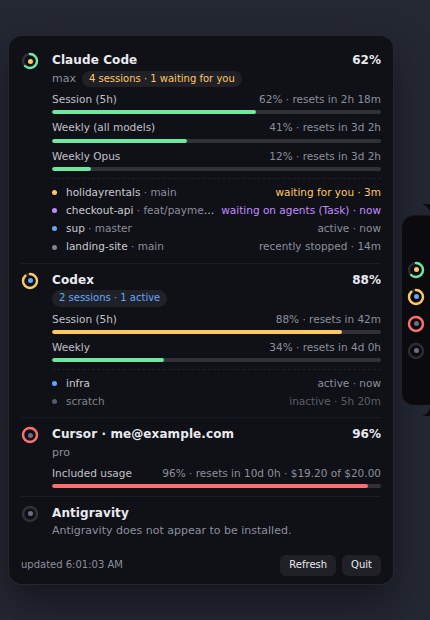
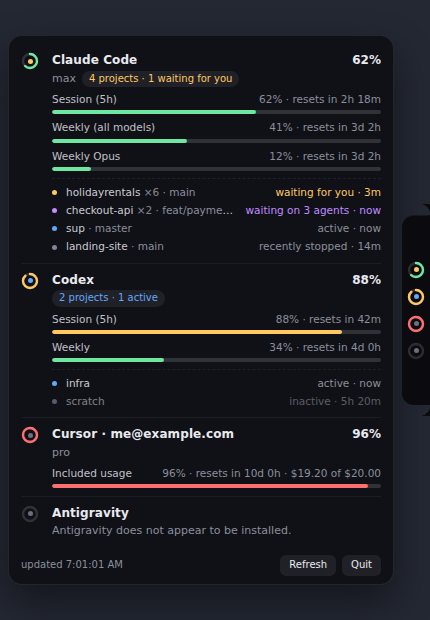
Collapse the list onto projects, and count outstanding agents
Six rows all reading "holidayrentals" were six session files, not subagents:
Claude Code writes one transcript per run, all under the project's directory,
so a project worked on all day accumulates transcripts and fills the list
with rows that look identical and say nothing.

Rows are now per project. Several transcripts fold into one, keeping the
state that most wants attention and the most recent activity, with a ×6
after the name for how many are behind it.

Subagents genuinely do not get their own files — they run inside the parent
transcript, marked isSidechain — so an agent count comes from counting
unanswered Task calls instead. A project blocked on them now reads "waiting
on 3 agents" rather than a bare "waiting on agents", and the hover title
carries the full path, branch, session count and agents outstanding.

35 tests pass, including that the fullest project keeps the freshest
timestamp and the most urgent of its states.

Claude-Session: https://claude.ai/code/session_01DtGgXZSrVJ5Qe7xeMLC8bR

diff --git a/src/main/lib/sessions.js b/src/main/lib/sessions.js
@@ -122,6 +122,7 @@ async function listSessions(rootDir, opts = {}) {
       state,
       stateLabel: STATES[state].label,
       waitingOn: info.pending ? info.pending.name : null,
+      agents: info.agents || 0,
       lastActivity: new Date(mtimeMs).toISOString(),
       ageMs,
     });
@@ -135,6 +136,46 @@ async function listSessions(rootDir, opts = {}) {
 
   sessions.sort((a, b) => STATES[a.state].rank - STATES[b.state].rank || a.ageMs - b.ageMs);
   return sessions.slice(0, limit);
+}
+
+/**
+ * One row per project, not per transcript.
+ *
+ * Every `claude` run in a directory writes its own session file, so a project
+ * worked on all day accumulates transcripts and would otherwise fill the list
+ * with identical-looking rows. Collapse them onto the project, keeping the
+ * state that most wants attention and the most recent activity.
+ */
+function groupByProject(sessions, { limit = 8 } = {}) {
+  const groups = new Map();
+
+  for (const session of sessions) {
+    const key = session.cwd || session.id;
+    const group = groups.get(key);
+
+    if (!group) {
+      groups.set(key, { ...session, sessionCount: 1, agents: session.agents || 0 });
+      continue;
+    }
+
+    group.sessionCount += 1;
+    group.agents += session.agents || 0;
+
+    if (STATES[session.state].rank < STATES[group.state].rank) {
+      group.state = session.state;
+      group.stateLabel = STATES[session.state].label;
+      group.waitingOn = session.waitingOn;
+    }
+    if (session.ageMs < group.ageMs) {
+      group.ageMs = session.ageMs;
+      group.lastActivity = session.lastActivity;
+      group.branch = session.branch || group.branch;
+    }
+  }
+
+  return [...groups.values()]
+    .sort((a, b) => STATES[a.state].rank - STATES[b.state].rank || a.ageMs - b.ageMs)
+    .slice(0, limit);
 }
 
 /** The one session the collapsed tab should speak for. */
@@ -158,7 +199,7 @@ function summarise(sessions) {
  * current turn is considered, because our tail window may start after an older
  * call's result and we would wrongly call it pending.
  */
-function pendingToolCall(records, { isUserPrompt, toolUsesOf, toolResultsOf }) {
+function pendingToolCalls(records, { isUserPrompt, toolUsesOf, toolResultsOf }) {
   const resolved = new Set();
   const candidates = [];
 
@@ -169,17 +210,23 @@ function pendingToolCall(records, { isUserPrompt, toolUsesOf, toolResultsOf }) {
     if (isUserPrompt(rec)) break; // start of the current turn
   }
 
-  for (const use of candidates) {
-    if (!resolved.has(use.id)) return { ...use, ...classifyTool(use.name, use.input) };
-  }
-  return null;
+  return candidates
+    .filter((use) => !resolved.has(use.id))
+    .map((use) => ({ ...use, ...classifyTool(use.name, use.input) }));
+}
+
+/** The one call a session is blocked on, most recent first. */
+function pendingToolCall(records, hooks) {
+  return pendingToolCalls(records, hooks)[0] || null;
 }
 
 module.exports = {
   listSessions,
+  groupByProject,
   summarise,
   deriveState,
   pendingToolCall,
+  pendingToolCalls,
   classifyTool,
   STATES,
   DEFAULT_THRESHOLDS,

diff --git a/test/parsers.test.js b/test/parsers.test.js
@@ -9,7 +9,7 @@ const cursor = require('../src/main/providers/cursor')._internal;
 const antigravity = require('../src/main/providers/antigravity')._internal;
 const placement = require('../src/main/placement');
 const { worstWindow } = require('../src/main/lib/shape');
-const { deriveState, classifyTool } = require('../src/main/lib/sessions');
+const { deriveState, groupByProject } = require('../src/main/lib/sessions');
 const { kindOf } = require('../src/main/lib/processes');
 
 test('claude: maps the oauth usage payload to windows', () => {
@@ -209,6 +209,57 @@ test('session state: a fresh write beats everything else', () => {
 test('session state: a long-idle live session stops claiming to wait', () => {
   const old = { ageMs: 6 * 60 * 60 * 1000, pending: null, alive: true };
   assert.equal(deriveState(old), 'inactive');
+});
+
+const sess = (cwd, state, ageMs, extra = {}) => ({
+  id: `${cwd}-${ageMs}`,
+  cwd,
+  project: cwd.split('/').pop(),
+  branch: 'main',
+  state,
+  ageMs,
+  lastActivity: new Date(Date.now() - ageMs).toISOString(),
+  agents: 0,
+  ...extra,
+});
+
+test('grouping: many transcripts for one project become one row', () => {
+  // Every `claude` run in a directory writes its own transcript, so a project
+  // worked on all day would otherwise fill the list with identical rows.
+  const rows = groupByProject([
+    sess('/code/rentals', 'inactive', 9e6),
+    sess('/code/rentals', 'active', 1000),
+    sess('/code/rentals', 'stopped', 5e5),
+    sess('/code/shop', 'stopped', 6e5),
+  ]);
+
+  assert.equal(rows.length, 2);
+  const rentals = rows.find((r) => r.project === 'rentals');
+  assert.equal(rentals.sessionCount, 3);
+  // The state that most wants attention wins, and the freshest time is kept.
+  assert.equal(rentals.state, 'active');
+  assert.equal(rentals.ageMs, 1000);
+});
+
+test('grouping: outstanding agents are summed across a project', () => {
+  const [row] = groupByProject([
+    sess('/code/rentals', 'agents', 2000, { agents: 2, waitingOn: 'Task' }),
+    sess('/code/rentals', 'active', 3000, { agents: 1 }),
+  ]);
+  assert.equal(row.agents, 3);
+  assert.equal(row.state, 'agents');
+});
+
+test('grouping: the most urgent project sorts first', () => {
+  const rows = groupByProject([
+    sess('/code/a', 'inactive', 9e6),
+    sess('/code/b', 'active', 1000),
+    sess('/code/c', 'input', 5e5),
+  ]);
+  assert.deepEqual(
+    rows.map((r) => r.project),
+    ['c', 'b', 'a']
+  );
 });
 
 test('placement: the tab centres on the chosen edge', () => {

diff --git a/src/main/providers/claude.js b/src/main/providers/claude.js
@@ -6,7 +6,7 @@ const { execFile } = require('child_process');
 const { claudeConfigDirs, readJson } = require('../lib/paths');
 const { getJson } = require('../lib/http');
 const { usageWindow, providerResult } = require('../lib/shape');
-const { listSessions, summarise, pendingToolCall } = require('../lib/sessions');
+const { listSessions, groupByProject, summarise, pendingToolCall, pendingToolCalls } = require('../lib/sessions');
 
 const USAGE_URL = 'https://api.anthropic.com/api/oauth/usage';
 const OAUTH_BETA = 'oauth-2025-04-20';
@@ -111,7 +111,7 @@ function parseClaudeSession(records) {
     return Array.isArray(content) ? content : [];
   };
 
-  const pending = pendingToolCall(records, {
+  const hooks = {
     // A user record holding only tool_result blocks is the tail of the current
     // turn, not the start of a new one.
     isUserPrompt: (rec) =>
@@ -127,9 +127,19 @@ function parseClaudeSession(records) {
       blocks(rec)
         .filter((b) => b && b.type === 'tool_result' && b.tool_use_id)
         .map((b) => b.tool_use_id),
-  });
+  };
 
-  return { cwd, branch, lastStop, pending };
+  const unresolved = pendingToolCalls(records, hooks);
+
+  return {
+    cwd,
+    branch,
+    lastStop,
+    pending: unresolved[0] || null,
+    // Subagents run inside the parent transcript, so an unanswered Task call
+    // is one agent still out there.
+    agents: unresolved.filter((call) => call.background).length,
+  };
 }
 
 async function collectOne({ dir, label }, ctx) {
@@ -137,12 +147,15 @@ async function collectOne({ dir, label }, ctx) {
   const id = 'claude';
   const displayLabel = 'Claude Code';
 
-  const sessions = await listSessions(path.join(dir, 'projects'), {
-    parse: parseClaudeSession,
-    kind: 'claude',
-    processes: ctx.processes || [],
-    processesKnown: Boolean(ctx.processesKnown),
-  });
+  const sessions = groupByProject(
+    await listSessions(path.join(dir, 'projects'), {
+      parse: parseClaudeSession,
+      kind: 'claude',
+      processes: ctx.processes || [],
+      processesKnown: Boolean(ctx.processesKnown),
+      limit: 24,
+    })
+  );
   const session = summarise(sessions);
   const creds = readCredentials(dir);
   const envToken = process.env.CLAUDE_CODE_OAUTH_TOKEN;

diff --git a/src/renderer/sup.js b/src/renderer/sup.js
@@ -67,7 +67,7 @@ function summariseCounts(counts) {
   if (!total) return null;
 
   const headline = ['input', 'agents', 'active'].find((state) => counts[state]);
-  const size = total === 1 ? '1 session' : `${total} sessions`;
+  const size = total === 1 ? '1 project' : `${total} projects`;
   return headline ? `${size} \u00b7 ${counts[headline]} ${STATE_LABELS[headline]}` : size;
 }
 
@@ -234,17 +234,29 @@ function sessionList(sessions) {
   for (const s of sessions.slice(0, MAX_SESSION_ROWS)) {
     const row = el('div', 'session');
     row.dataset.state = s.state;
-    row.title = [s.cwd, s.branch && `branch ${s.branch}`, s.id].filter(Boolean).join('\n');
+    row.title = [
+      s.cwd,
+      s.branch && `branch ${s.branch}`,
+      s.sessionCount > 1 && `${s.sessionCount} sessions`,
+      s.agents > 0 && `${s.agents} agent${s.agents === 1 ? '' : 's'} outstanding`,
+    ]
+      .filter(Boolean)
+      .join('\n');
 
     const who = el('div', 'who');
     who.append(document.createTextNode(s.project || s.id.slice(0, 8)));
+    // Several transcripts for one project collapse into a single row.
+    if (s.sessionCount > 1) who.append(el('em', 'tally', ` \u00d7${s.sessionCount}`));
     if (s.branch) who.append(el('em', null, ` \u00b7 ${s.branch}`));
 
-    const label = STATE_LABELS[s.state] || s.state;
-    const detail = s.state === 'agents' && s.waitingOn ? `${label} (${s.waitingOn})` : label;
+    // "waiting on agents" is more useful as "waiting on 3 agents".
+    const label =
+      s.state === 'agents' && s.agents > 1
+        ? `waiting on ${s.agents} agents`
+        : STATE_LABELS[s.state] || s.state;
 
     const age = Date.now() - new Date(s.lastActivity).getTime();
-    row.append(el('span', 'dot'), who, el('div', 'what', `${detail} \u00b7 ${formatAge(age)}`));
+    row.append(el('span', 'dot'), who, el('div', 'what', `${label} \u00b7 ${formatAge(age)}`));
     wrap.append(row);
   }
 

diff --git a/scripts/screenshot.js b/scripts/screenshot.js
@@ -34,8 +34,8 @@ const SNAPSHOT = {
       ],
       session: { state: 'input', since: iso(-0.05), project: 'holidayrentals', counts: { input: 1, agents: 1, active: 1, stopped: 1 } },
       sessions: [
-        sess('holidayrentals', 'main', 'input', 3),
-        sess('checkout-api', 'feat/payments', 'agents', 0.6, 'Task'),
+        sess('holidayrentals', 'main', 'input', 3, { sessionCount: 6 }),
+        sess('checkout-api', 'feat/payments', 'agents', 0.6, { waitingOn: 'Task', agents: 3, sessionCount: 2 }),
         sess('sup', 'master', 'active', 0.1),
         sess('landing-site', 'main', 'stopped', 14),
       ],
@@ -87,7 +87,7 @@ function iso(hoursFromNow) {
 }
 
 /** One sample session row, `minsAgo` minutes since it last did anything. */
-function sess(project, branch, state, minsAgo, waitingOn = null) {
+function sess(project, branch, state, minsAgo, opts = {}) {
   const ageMs = minsAgo * 60 * 1000;
   return {
     id: `${project}-session`,
@@ -95,7 +95,9 @@ function sess(project, branch, state, minsAgo, waitingOn = null) {
     cwd: `/home/mark/code/${project}`,
     branch,
     state,
-    waitingOn,
+    waitingOn: opts.waitingOn || null,
+    agents: opts.agents || 0,
+    sessionCount: opts.sessionCount || 1,
     lastActivity: new Date(Date.now() - ageMs).toISOString(),
     ageMs,
   };

diff --git a/src/main/providers/codex.js b/src/main/providers/codex.js
@@ -6,7 +6,7 @@ const path = require('path');
 const { codexHome, readJson, exists } = require('../lib/paths');
 const { getJson } = require('../lib/http');
 const { usageWindow, providerResult } = require('../lib/shape');
-const { listSessions, summarise } = require('../lib/sessions');
+const { listSessions, groupByProject, summarise } = require('../lib/sessions');
 const { tailJsonl, findJsonlFiles } = require('../lib/jsonl');
 
 const USAGE_URL = 'https://chatgpt.com/backend-api/wham/usage';
@@ -160,12 +160,15 @@ async function collect(ctx = {}) {
     return [providerResult({ id, label, status: 'not-installed', detail: `No ${home} directory found.` })];
   }
 
-  const sessions = await listSessions(path.join(home, 'sessions'), {
-    parse: parseCodexSession,
-    kind: 'codex',
-    processes: ctx.processes || [],
-    processesKnown: Boolean(ctx.processesKnown),
-  });
+  const sessions = groupByProject(
+    await listSessions(path.join(home, 'sessions'), {
+      parse: parseCodexSession,
+      kind: 'codex',
+      processes: ctx.processes || [],
+      processesKnown: Boolean(ctx.processesKnown),
+      limit: 24,
+    })
+  );
   const session = summarise(sessions);
   const auth = readAuth(home);
 

diff --git a/src/renderer/sup.css b/src/renderer/sup.css
@@ -445,6 +445,10 @@ body[data-edge='bottom'] .panel-body {
   font-style: normal;
   color: var(--muted);
 }
+.session .who em.tally {
+  color: rgba(233, 234, 240, 0.55);
+  font-variant-numeric: tabular-nums;
+}
 .session .what {
   color: var(--muted);
   white-space: nowrap;

diff --git a/README.md b/README.md
@@ -92,6 +92,15 @@ counting that would mark every idle session as needing attention. Claude Code's
 permission prompts are not written to the transcript at all, so those cannot be
 detected from here; such a session reads as active until its tool call resolves.
 
+One row per project, not per transcript. Every `claude` run in a directory
+writes its own session file, so a project worked on all day would otherwise
+fill the list with identical rows; they collapse onto the project, keeping
+whichever state most wants your attention and the most recent activity. A
+`×6` after the name is the number of sessions behind that row, and a project
+blocked on subagents reads "waiting on 3 agents" — counted from unanswered
+`Task` calls, since subagents run inside the parent transcript rather than
+getting files of their own.
+
 Rows are sorted by how much they want your attention, and each shows the
 project and git branch — both read from the transcript itself, so Codex
 sessions are named after their working directory rather than the dated folder
